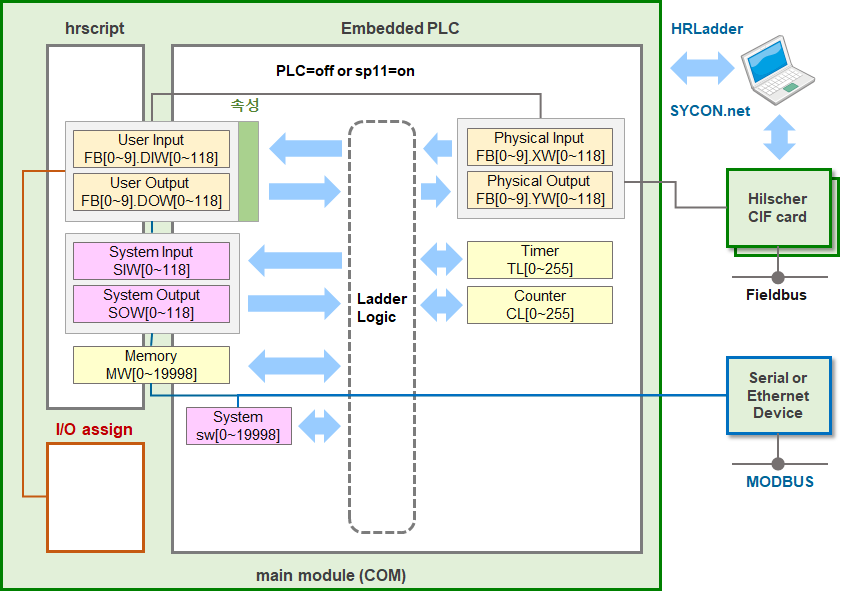
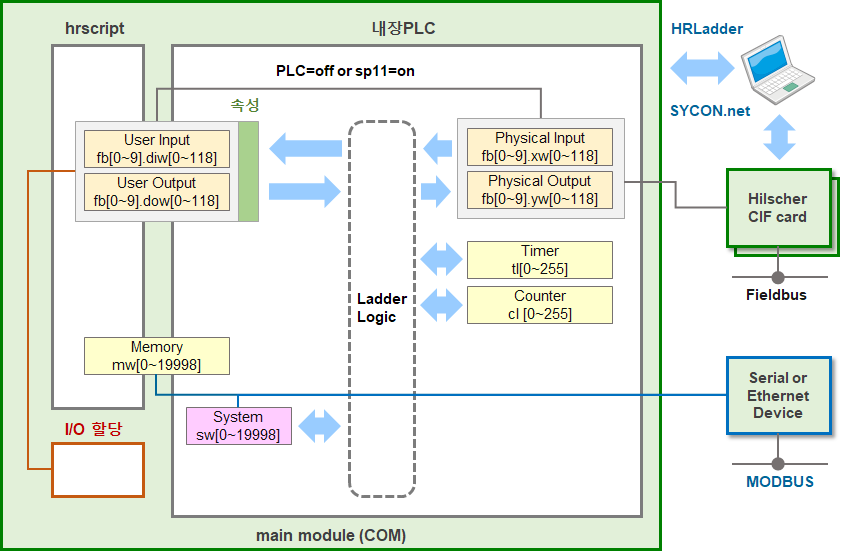
SI, SO 제거

diff --git a/3-relay/3-io-diagram.md b/3-relay/3-io-diagram.md
@@ -7,11 +7,9 @@ Hi6 로봇제어기의 입출력 Diagram은 다음 그림과 같습니다.
 
 그림 3.1 입출력 Diagram
 
-@@@ SIW, SOW를 SW 내부에 포함? (for 이름 혼동 방지. Hi5a와의 유사성.)
-
 <br><br>
 
-그림의 연두색 박스들은 Hi6 제어기 내부의 하드웨어 모듈들입니다. 좌측에는 main 소프트웨어가 구동되는 main module (COM)이 있습니다.우측에는 필드버스 연결을 위한 PCI 카드인 Hilscher CIF card 들과 MODBUS 연결을 위한 시리얼 혹은 이더넷 디바이스가 있습니다.  
+그림 우측의 연두색 박스들은 Hi6 제어기 내부의 하드웨어 모듈들입니다. 좌측에는 main 소프트웨어가 구동되는 main module (COM)이 있습니다.우측에는 필드버스 연결을 위한 PCI 카드인 Hilscher CIF card 들과 MODBUS 연결을 위한 시리얼 혹은 이더넷 디바이스가 있습니다.  
 
 main 소프트웨어 내에는 각종 릴레이들이 작은 박스의 형태로 그려져 있습니다. Hi6에서 이 릴레이에 접근하는 소프트웨어 요소는 hrscript(로봇언어)와 입출력 할당(I/O assignment), 그리고 내장PLC입니다.
 
